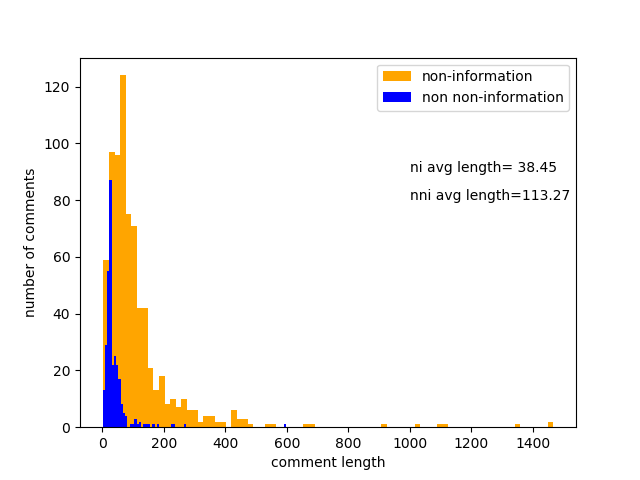
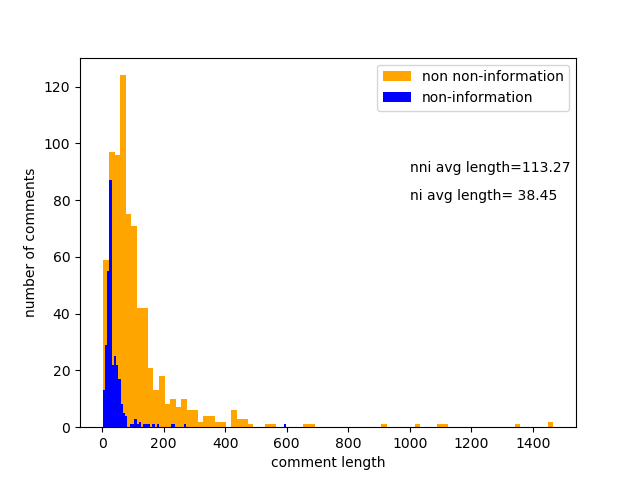
fix plot error for length_distribution

diff --git a/src/plot_utils.py b/src/plot_utils.py
@@ -32,9 +32,9 @@ def plot_length():
 
     plt.xlabel('comment length')
     plt.ylabel('number of comments')
-    plt.legend(['non-information', 'non non-information'])
-    plt.text(1000, 90, 'ni avg length= ' + str(round(sum(sample_ni) / len(sample_ni), 2)))
-    plt.text(1000, 80, 'nni avg length=' + str(round(sum(sample_nni) / len(sample_nni), 2)))
+    plt.legend(['non non-information', 'non-information'])
+    plt.text(1000, 80, 'ni avg length= ' + str(round(sum(sample_ni) / len(sample_ni), 2)))
+    plt.text(1000, 90, 'nni avg length=' + str(round(sum(sample_nni) / len(sample_nni), 2)))
     plt.savefig(img_outpath + 'length_distribution.png')
     plt.clf()
 
